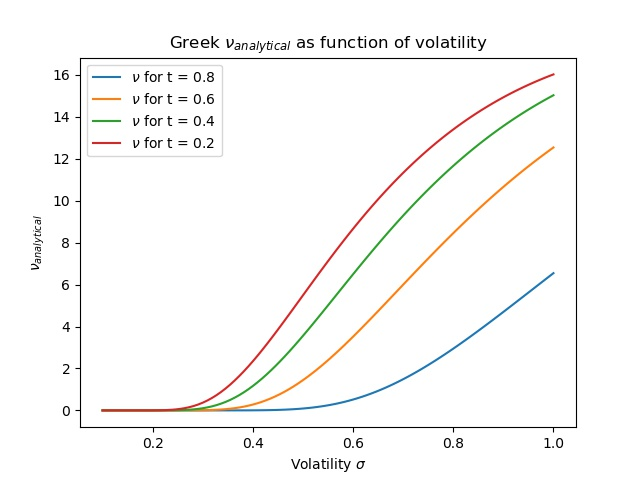
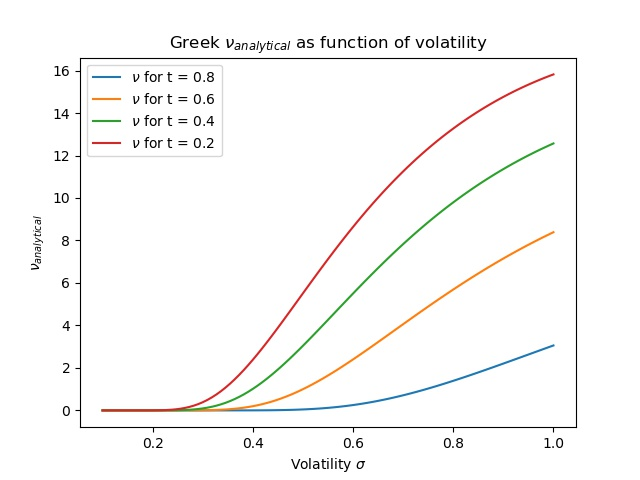
Fixed different buggs in greeks in Black_scholes.cpp

diff --git a/Project5/CodeBase/Black_scholes.cpp b/Project5/CodeBase/Black_scholes.cpp
@@ -118,8 +118,9 @@ void Black_scholes::Greeks(vec sigma,vec r, string rfilename,string sfilename){
   double r_fast = 0.04;
   double simga_fast = 0.4;
   double T = 1;
-  double X=0.5;
-  int N=2e2;
+  //Note: X and N have to be the same as for main_b
+  double X=0.75;
+  int N=1e3;
   double D=0.12;
   double E=50;
   double t = 0;
@@ -138,24 +139,22 @@ void Black_scholes::Greeks(vec sigma,vec r, string rfilename,string sfilename){
   ofile << setw(20) << setprecision(8) << " " << endl;
 
   for (int i = 1; i < 6; i++){
-    t = i/5. * T;
+    t = (double)i/5. * T;
     ofile << setw(20) << setprecision(8) << t << " ";
     for(int s =0;s<N1;s++){
-      Initialize(t,X,N,filename,r_fast,D,sigma(s),E);
-
+      Initialize(T,X,N,filename,r_fast,D,sigma(s),E);
       m_utilde(m_N-1)=(m_S(m_N-1)*exp(-t*m_D)-m_E*exp(-m_r*t))*exp(m_a*m_x(m_N-1)+m_b*t);
       calc_utilde(t);
       vec u = Tridiag();
       vec V = transform_u_V(u,t);
-
-      ofile << setw(20) << setprecision(8) << V(N1-2) << " ";
+      ofile << setw(20) << setprecision(8) << V(m_N-2) << " ";
     }
     ofile << setw(20) << setprecision(8) <<  " " << endl;
   }
   ofile.close();
 
   ofile.open(rfilename);
-  for (int j = 0; j < N1; j++){
+  for (int j = 0; j < N2; j++){
     ofile << setw(20) << setprecision(8) << r(j)<< " ";
   }
   ofile << setw(20) << setprecision(8) << " " << endl;
@@ -164,13 +163,13 @@ void Black_scholes::Greeks(vec sigma,vec r, string rfilename,string sfilename){
     t2 = (double)i/5. * T;
     ofile << setw(20) << setprecision(8) << t2 << " ";
     for(int k=0;k<N2;k++){
-      Initialize(t2,X,N,filename,r(k),D,simga_fast,E);
+      Initialize(T,X,N,filename,r(k),D,simga_fast,E);
       m_utilde(m_N-1)=(m_S(m_N-1)*exp(-t2*m_D)-m_E*exp(-m_r*t2))*exp(m_a*m_x(m_N-1)+m_b*t2);
       calc_utilde(t2);
       vec u = Tridiag();
       vec V = transform_u_V(u,t2);
 
-      ofile << setw(20) << setprecision(8) << V(N1-2) << " ";
+      ofile << setw(20) << setprecision(8) << V(m_N-2) << " ";
     }
     ofile << setw(20) << setprecision(8) <<  " " << endl;
   }

diff --git a/Project5/CodeBase/visualize_greeks.py b/Project5/CodeBase/visualize_greeks.py
@@ -191,7 +191,7 @@ plt.show()
 
 # Derivation of anaytical expression
 
-St = S[-1]
+St = S[-2]
 
 def n(x):
     return np.exp(-x**2/2)/(np.sqrt(2*np.pi))
@@ -202,8 +202,10 @@ def altdelta(St,tau):
 def altgamma(S,tau):
     return np.exp(-D*tau)*n(d1(S,tau,sigma))/(np.sqrt(tau)*S*sigma)
 
+"""def altvega(S,tau,sig):
+    return S*np.exp(-D*tau)*n(d1(S,tau,sig))*np.sqrt(tau)"""
 def altvega(S,tau,sig):
-    return S*np.exp(-D*tau)*n(d1(S,tau,sig))
+    return E*np.exp(-r*tau)*n(d2(S,tau,sig))*np.sqrt(tau)
 
 def alttheta(S,tau):
     return -np.exp(-D*tau)*S*n(d1(S,tau,sigma))*sigma/(np.sqrt(tau)*2) - \
